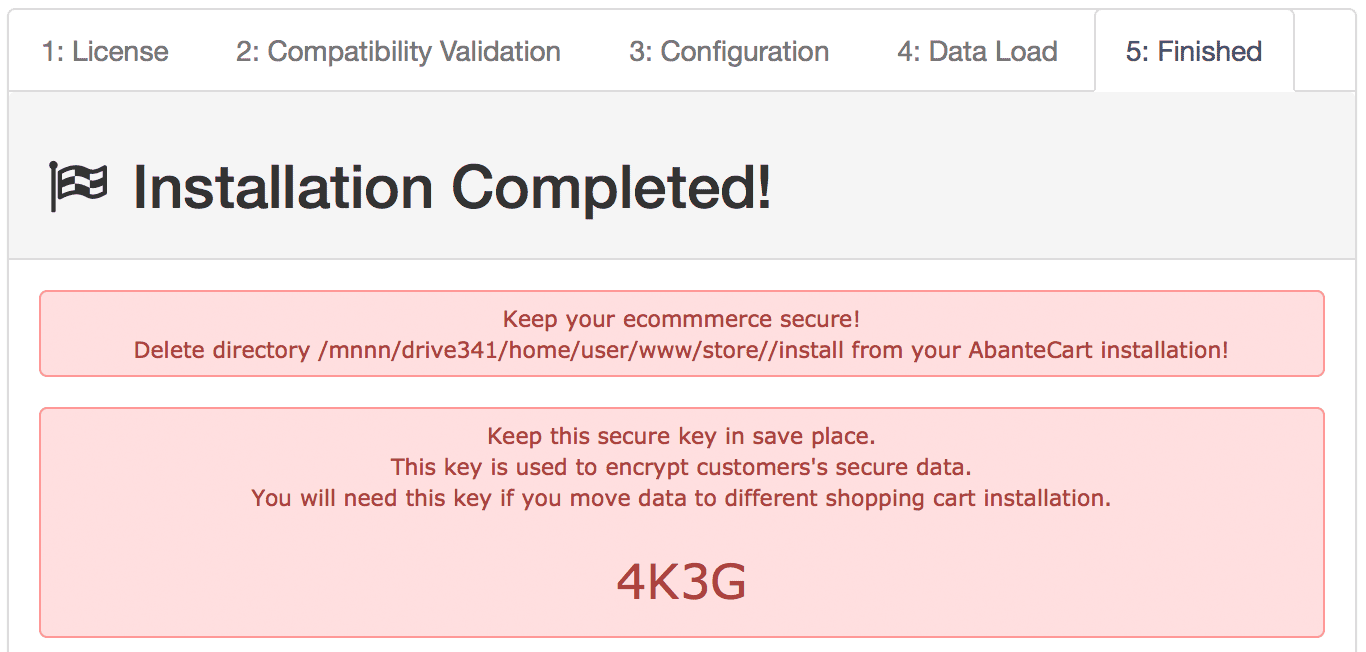
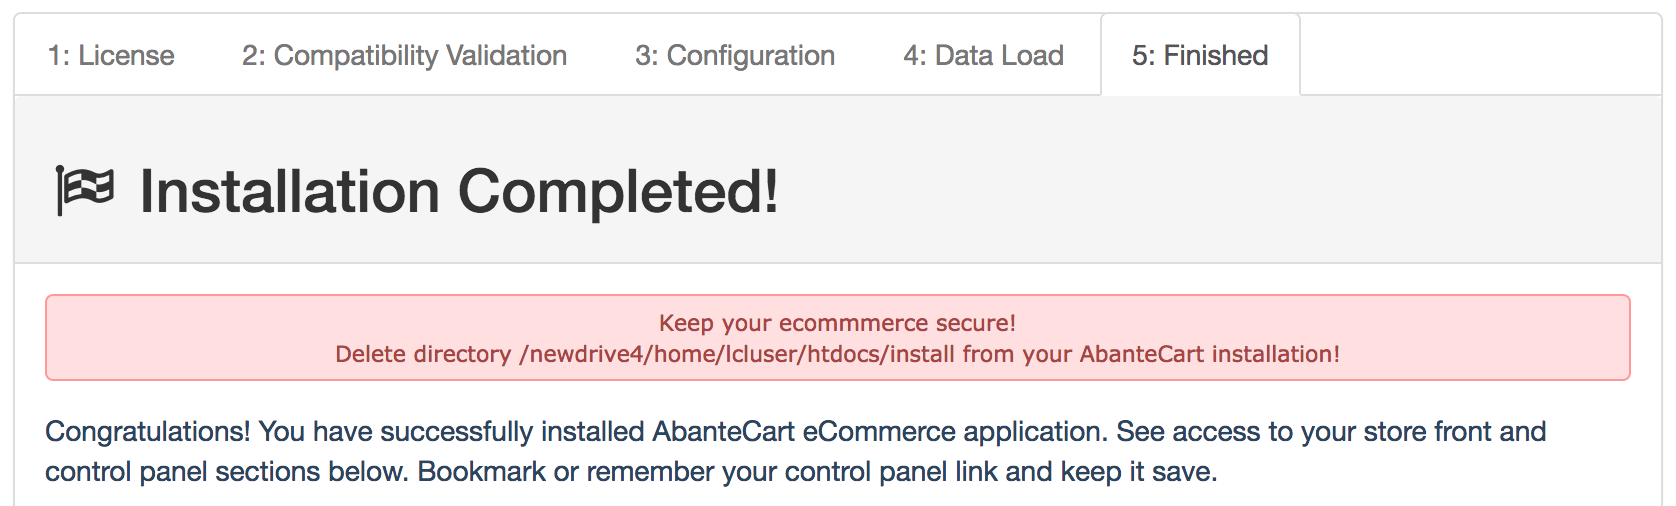
Screenshot update

diff --git a/pages/install/options/regular_installation.html b/pages/install/options/regular_installation.html
@@ -287,9 +287,9 @@ resources/
 							<li class="step">
 								<span class="step-number">5</span>
 								<h4 class="step-title">	After the Installation</h4>
-								<div class="step-content"> Once the installation is complete, it is strongly recommended that you bookmark or remember your control panel link and keep secure key save. Delete <em>install</em> directory from your AbanteCart installation and set only read permission for the system/config.php and /index.php file! Set with 644 or 640 permissions (444, or even 400 depending on your server setup). Only working directories needs to be 777 as cache, resources, images, logs. PHP files should not be 777 on live site.
-                                    <div class="helper center">
-                                        <img src="../../../img/pages/abantecart-install-key32.png" class="image isolated" alt="AbanteCart Installation"> </div>
+								<div class="step-content"> Once the installation is complete, it is strongly recommended that you bookmark or remember your control panel link. Delete <em>install</em> directory from your AbanteCart installation and set only read permission for the system/config.php and /index.php file! Set with 644 or 640 permissions (444, or even 400 depending on your server setup). Only working directories needs to be 777 as cache, resources, images, logs. PHP files should not be 777 on live site.
+                          <div class="helper center">
+                          <img src="../../../img/pages/abantecart-install-key32.png" class="image isolated" alt="AbanteCart Installation"> </div>
 						<!-- Note -->
 						<div class="note js-note note-bounce">
 							<h4 class="note-title"> Secure key </h4>
